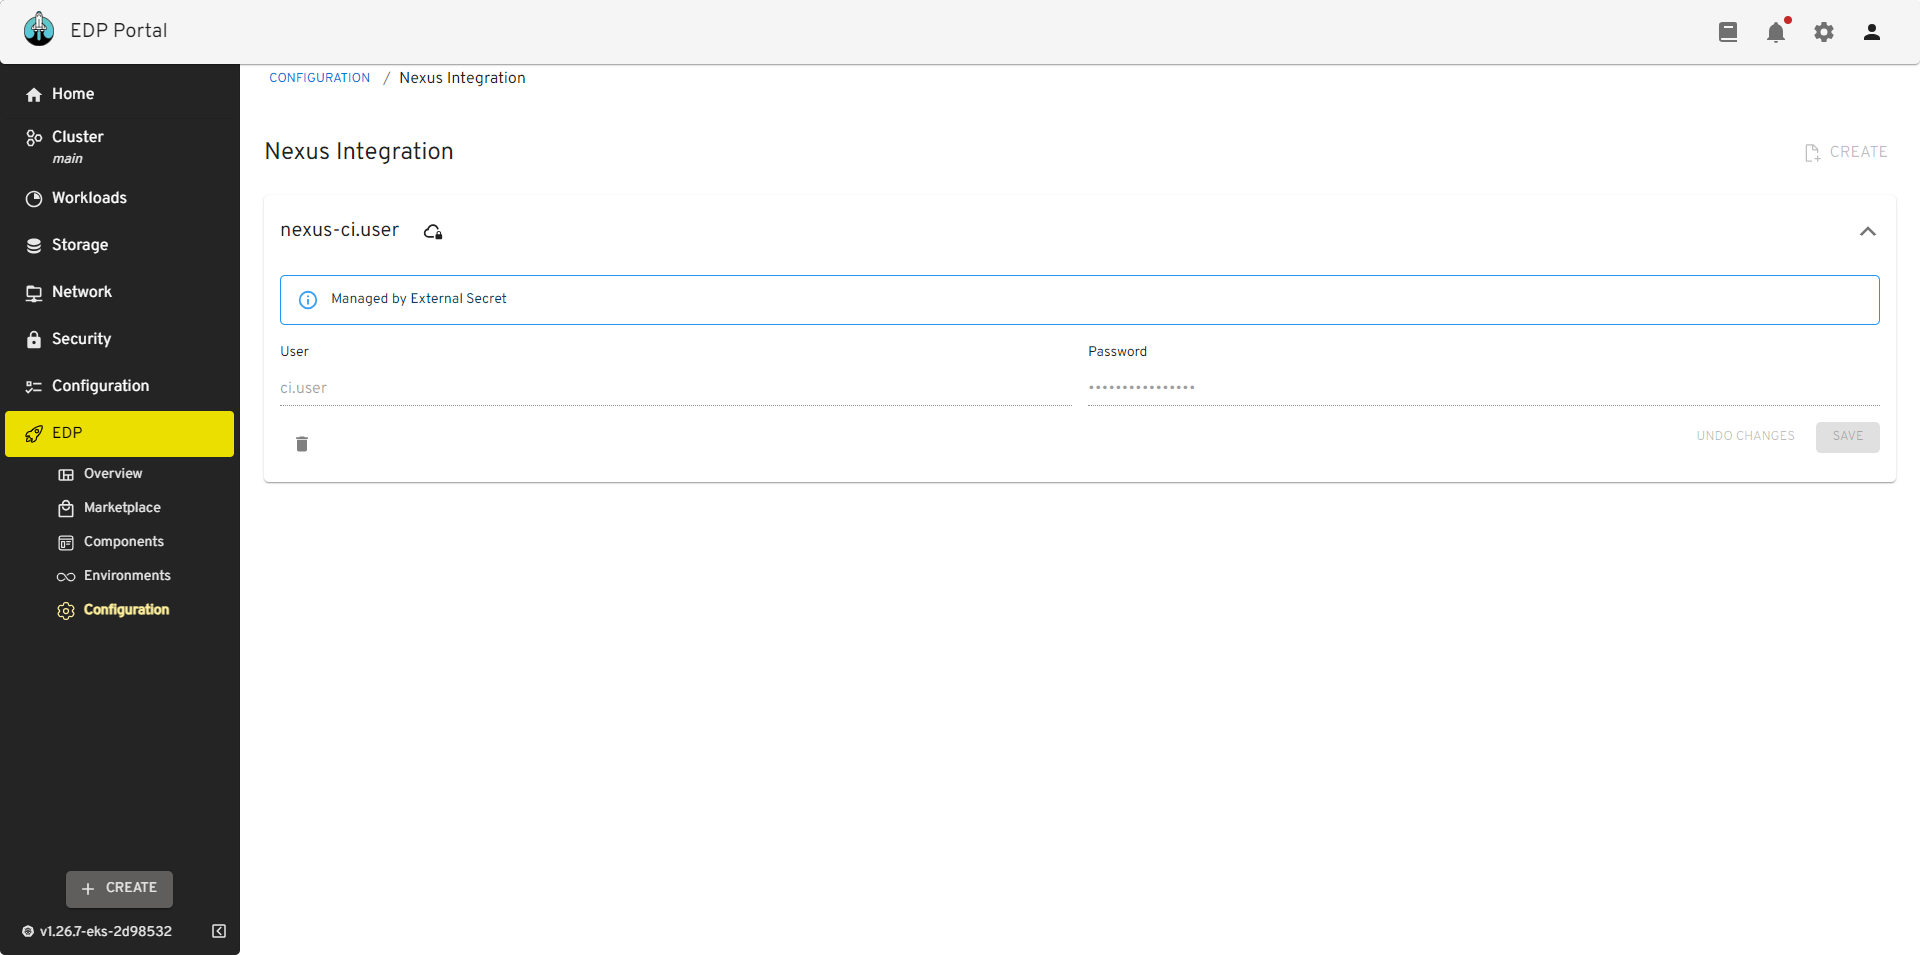
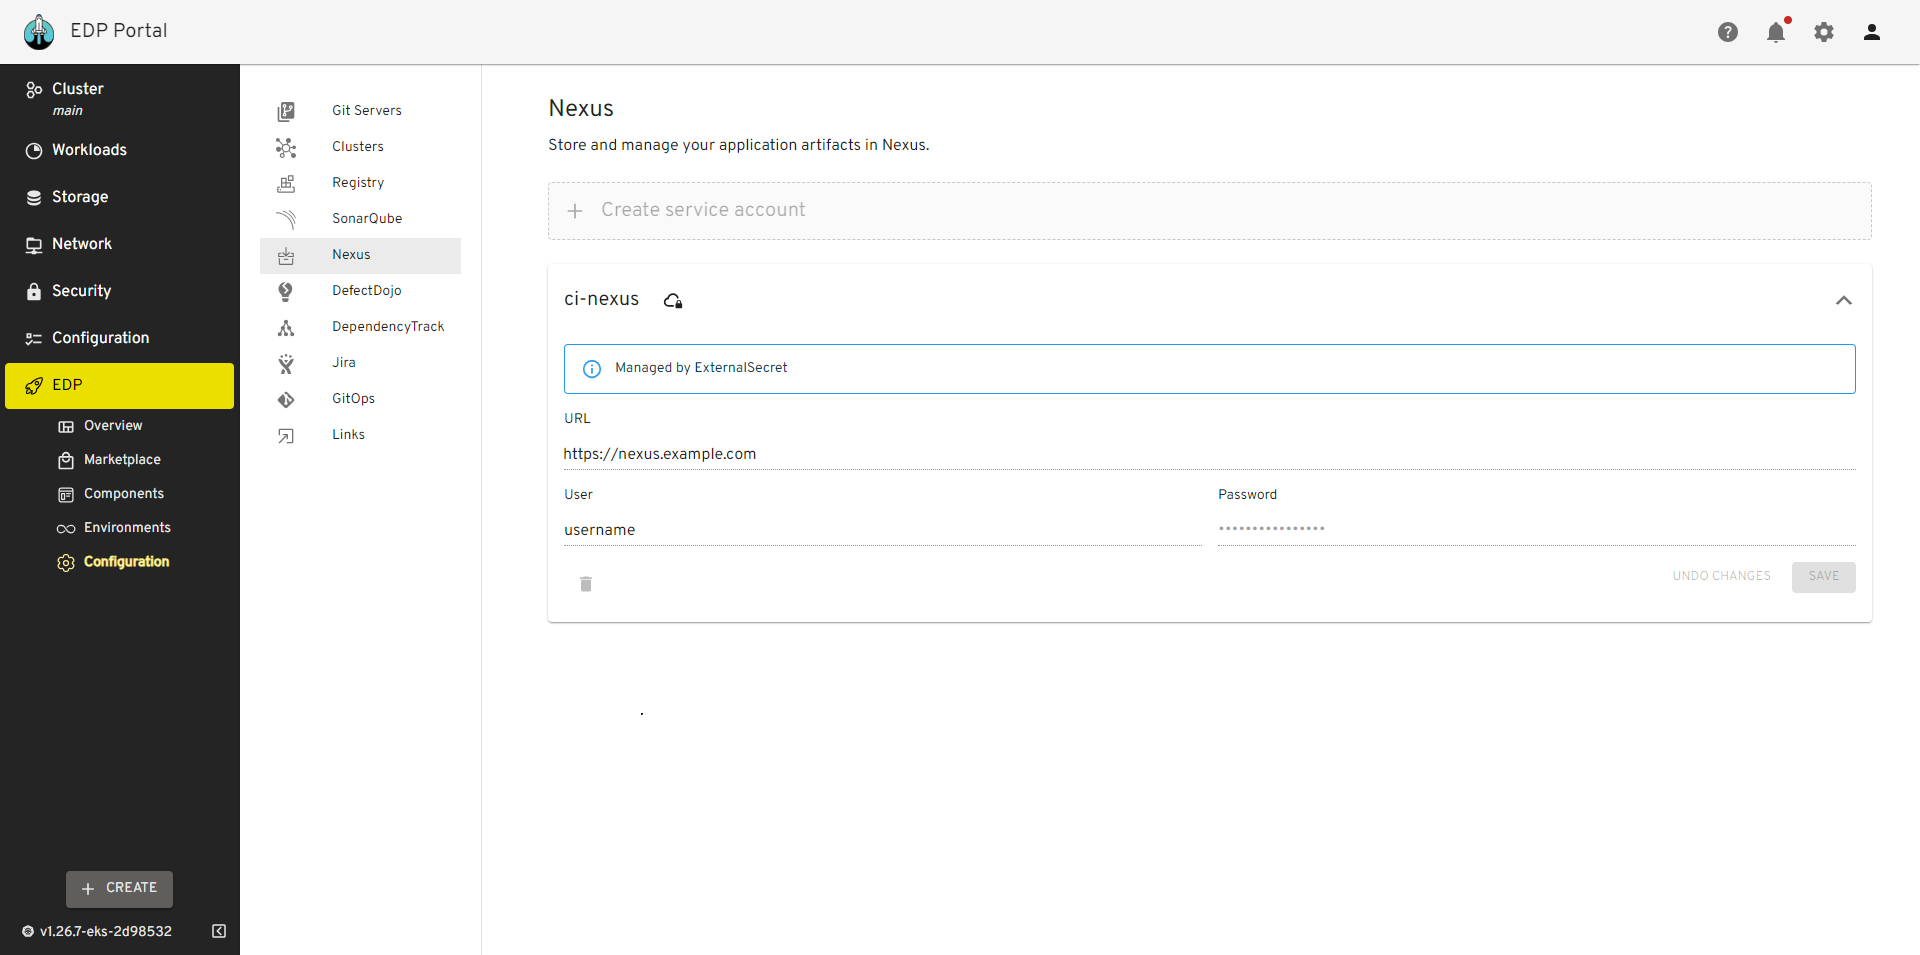
docs: Align Nexus secret for the new approach(#65)
Jira EPMDEDP-12504

Related https://github.com/epam/edp-install/issues/65

diff --git a/docs/operator-guide/nexus-sonatype.md b/docs/operator-guide/nexus-sonatype.md
@@ -1,6 +1,9 @@
 # Nexus Sonatype Integration
 
-This documentation guide provides comprehensive instructions for integrating external Nexus with the EPAM Delivery Platform.
+This documentation guide provides comprehensive instructions for integrating Nexus with the EPAM Delivery Platform.
+
+!!! info
+    In EDP release 3.5, we have changed the deployment strategy for the nexus-operator component, now it is not installed by default. The `nexusURL` parameter management has been transferred from the values.yaml file to Kubernetes secrets.
 
 ## Prerequisites
 
@@ -9,24 +12,9 @@ Before proceeding, ensure that you have the following prerequisites:
 * [Kubectl](https://v1-26.docs.kubernetes.io/releases/download/) version 1.26.0 is installed.
 * [Helm](https://helm.sh) version 3.12.0+ is installed.
 
-EDP includes a pre-configured Nexus Sonatype instance, eliminating the need for extra setup and enabling immediate, hassle-free artifact management. Nevertheless, EDP also provides the versatility to incorporate external Nexus Sonatype instances, finely tuned to meet project-specific demands.
+## Installation
 
-## Switch to External Nexus
-
-1. To use external Nexus in EDP, redefine the following parameters in the EDP-install [values.yaml](https://github.com/epam/edp-install/blob/master/deploy-templates/values.yaml) file before installation. In the `nexusUrl` parameter, input the appropriate values for Nexus service, namespace and a port `http://<service-name>.<nexus-namespace>:8081`. Alternatively, use the address and a port to external Nexus `http(s)://<endpoint>` instead.
-
-  ```yaml
-  global:
-    nexusUrl: ""
-
-  nexus-operator:
-    enabled: false
-  ```
-
-2. Proceed with the installation of EDP by following the [Install EDP](../operator-guide/install-edp.md) guide.
-
-!!! note
-    You can install preconfigured nexus with edp-nexus-operator using [EDP addons](https://github.com/epam/edp-cluster-add-ons) approach.
+To install Nexus with pre-defined templates, use the nexus-operator installed via [Cluster Add-Ons](https://github.com/epam/edp-cluster-add-ons) approach.
 
 ## Configuration
 
@@ -93,39 +81,41 @@ To create the Nexus `ci.user`and define repository parameters follow the steps b
 
 4. Provision secrets using manifest, EDP Portal or with the externalSecrets operator
 
-=== "manifest"
+=== "EDP Portal"
+
+    Go to **EDP Portal** -> **EDP** -> **Configuration** -> **Nexus**. Update or fill in the **URL**, **nexus-user-id**, **nexus-user-password** and click the **Save** button:
+
+    !![Nexus update manual secret](../assets/operator-guide/nexus-secret-password.png "Nexus update manual secret")
+
+=== "Manifest"
 
     ```yaml
     apiVersion: v1
     kind: Secret
     metadata:
-      name: nexus-ci.user
+      name: ci-nexus
       namespace: edp
       labels:
         app.edp.epam.com/secret-type: nexus
     type: Opaque
     stringData:
-      password: <nexus-user-password>
+      url: https://nexus.example.com
       username: <nexus-user-id>
+      password: <nexus-user-password>
     ```
-
-=== "EDP Portal UI"
-
-    Go to the `EDP Platform` open `EDP` -> `Configuration` -> `Nexus Integration` change `<nexus-user-id>` and `<nexus-user-password>` and click `save` button.
-
-    !![Nexus update manual secret](../assets/operator-guide/nexus-secret-password.png "Nexus update manual secret")
 
 === "External Secrets Operator"
 
-    ```yaml
-    "nexus-ci.user":
+    ```json
+    "ci-nexus":
     {
-      "nexus-user-id": "XXXXXXX",
-      "nexus-user-password": "XXXXXXX"
+      "url": "https://nexus.example.com",
+      "username": "XXXXXXX",
+      "password": "XXXXXXX"
     },
     ```
 
-    Go to the `EDP Platform` open `EDP` -> `Configuration` -> `Nexus Integration` yo will see message `Managed by External Secret`.
+    Go to **EDP Portal** -> **EDP** -> **Configuration** -> **Nexus** and see `Managed by External Secret` message.
 
     !![Nexus managed by external secret operator](../assets/operator-guide/nexus-externalsecret-password.png "Nexus managed by external secret operator")
 
@@ -135,3 +125,4 @@ To create the Nexus `ci.user`and define repository parameters follow the steps b
 * [Install EDP With Values File](install-edp.md)
 * [Install External Secrets Operator](install-external-secrets-operator.md)
 * [External Secrets Operator Integration](external-secrets-operator-integration.md)
+* [Cluster Add-Ons Overview](add-ons-overview.md)
